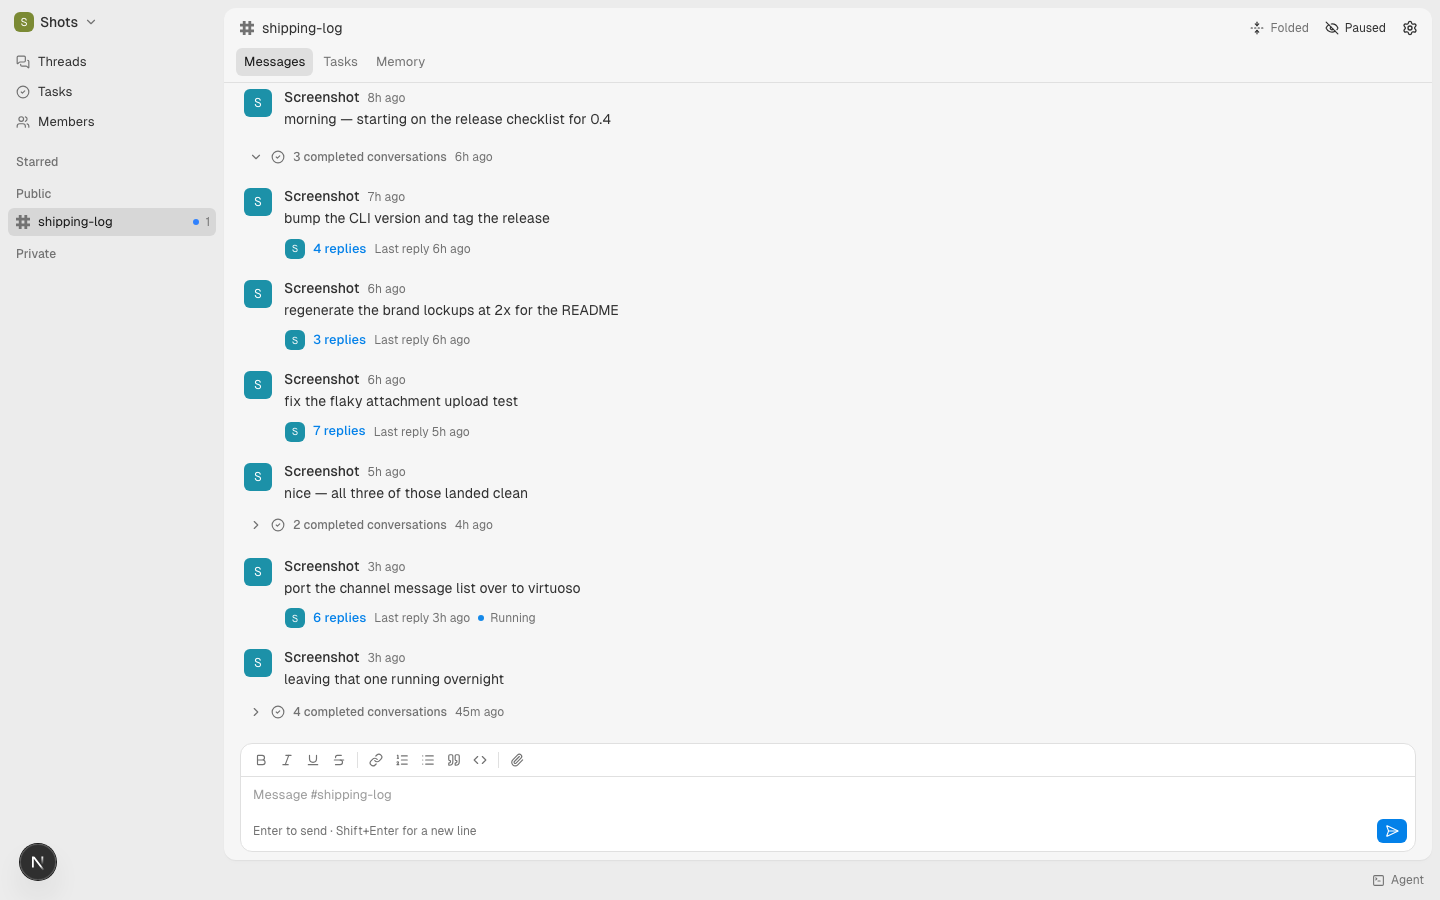
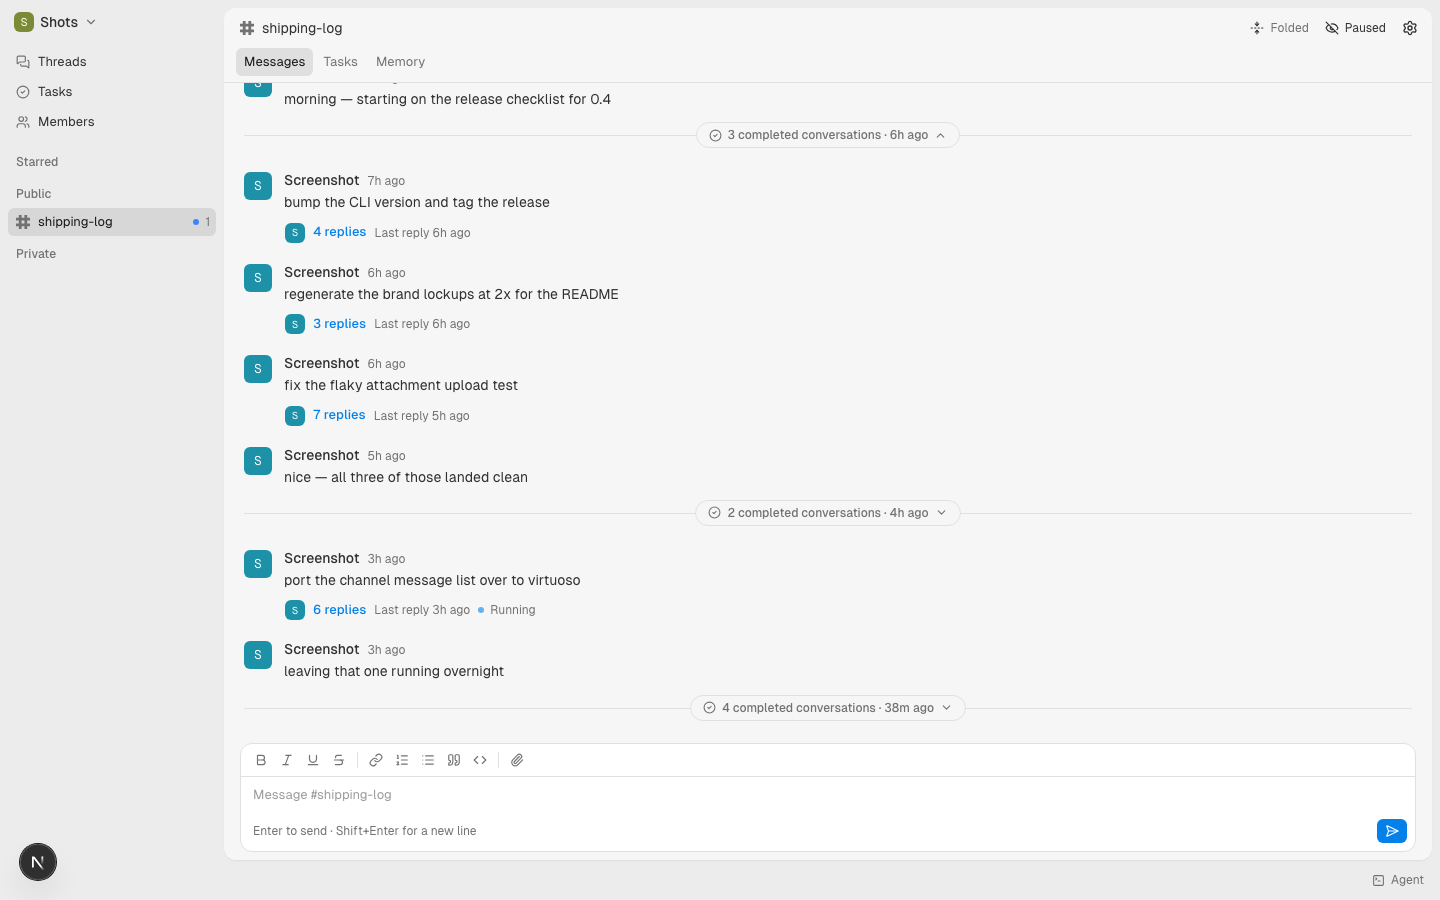
feat(web): give the band Slack's divider pill
Left-aligned, the band sat in the avatar column and read as another message
in the stream — the one thing it is not. Slack's date divider solves the same
problem: a hairline across the column with a rounded pill centred on it, so
the row reads as a seam between sections rather than as content.

The pill carries the count, when the run last finished, and a chevron that
turns over when it opens. It paints bg-background-2 so it masks the rule
behind it rather than sitting in a gap.

diff --git a/apps/web/src/components/messages/completed-band.tsx b/apps/web/src/components/messages/completed-band.tsx
@@ -1,7 +1,7 @@
 "use client";
 
 import { cn } from "@roster/ui";
-import { ChevronDown, ChevronRight, CircleCheck } from "lucide-react";
+import { ChevronDown, CircleCheck } from "lucide-react";
 import { memo } from "react";
 
 import { bandLabel } from "~/utils/channel-rows";
@@ -20,23 +20,29 @@ export const CompletedBand = memo(function CompletedBand({
   expanded,
   onToggle,
 }: CompletedBandProps) {
-  const Chevron = expanded ? ChevronDown : ChevronRight;
-
   return (
-    <div className={cn("px-3 sm:px-5", expanded ? "pt-3 pb-1" : "py-1.5")}>
-      <button
-        type="button"
-        onClick={onToggle}
-        aria-expanded={expanded}
-        className="text-muted-foreground hover:bg-grayAlpha-50 hover:text-foreground hover:border-border flex w-full items-center gap-2 rounded-md border border-transparent px-1 py-1 text-left"
-      >
-        <Chevron size={14} className="shrink-0" />
-        <CircleCheck size={14} className="shrink-0" />
-        <span className="text-xs font-medium">{bandLabel(count)}</span>
-        <span className="truncate text-xs" suppressHydrationWarning>
-          {relativeTime(lastAt)}
-        </span>
-      </button>
+    <div className="relative px-3 py-2.5 sm:px-5">
+      <span
+        aria-hidden
+        className="border-border absolute inset-x-3 top-1/2 border-t sm:inset-x-5"
+      />
+      <span className="relative flex justify-center">
+        <button
+          type="button"
+          onClick={onToggle}
+          aria-expanded={expanded}
+          className="bg-background-2 border-border text-muted-foreground hover:bg-background-3 hover:text-foreground flex items-center gap-1.5 rounded-full border px-3 py-1 text-xs font-medium"
+        >
+          <CircleCheck size={13} className="shrink-0" />
+          <span suppressHydrationWarning>
+            {`${bandLabel(count)} · ${relativeTime(lastAt)}`}
+          </span>
+          <ChevronDown
+            size={13}
+            className={cn("shrink-0", expanded && "rotate-180")}
+          />
+        </button>
+      </span>
     </div>
   );
 });
